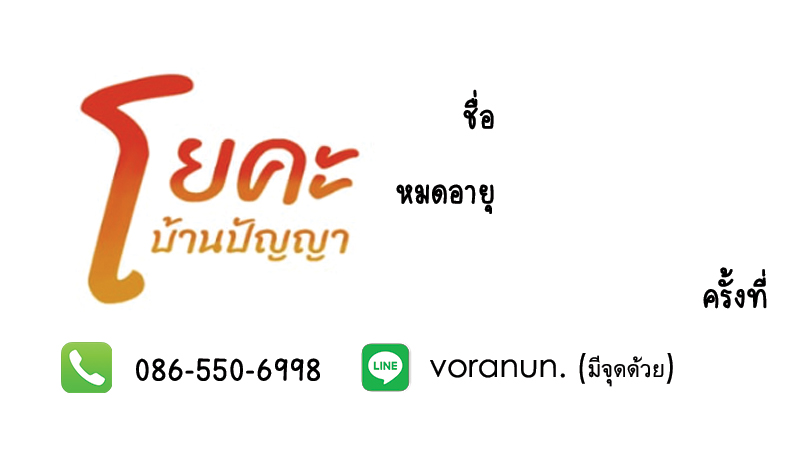
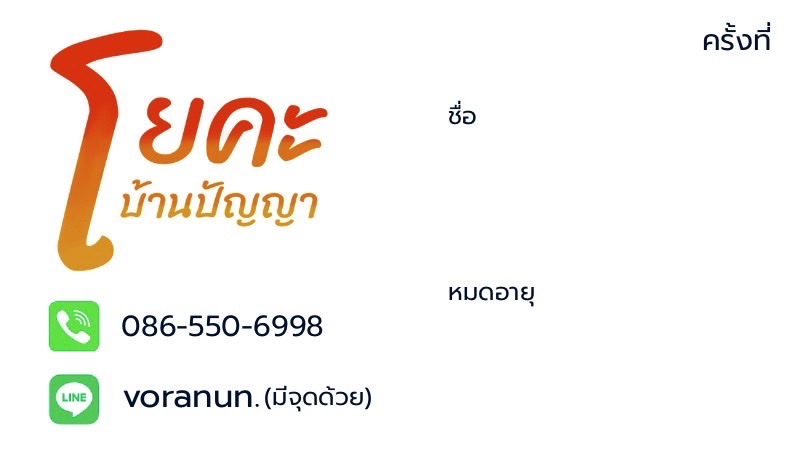
แก้ไข BG [2024-02-19]

diff --git a/index.html b/index.html
@@ -1,191 +1,199 @@
 <!DOCTYPE html>
 <html lang="th">
-<head>
-    <meta charset="UTF-8">
-    <meta name="viewport" content="width=device-width, initial-scale=1.0">
+  <head>
+    <meta charset="UTF-8" />
+    <meta name="viewport" content="width=device-width, initial-scale=1.0" />
     <title>Print Cards</title>
+
+    <link
+      href="https://fonts.googleapis.com/css2?family=Kanit:wght@300;400;700&display=swap"
+      rel="stylesheet"
+    />
+
     <style>
+      body {
+        font-family: "Kanit", sans-serif;
+        text-align: center;
+      }
+
+      .form-container {
+        margin-bottom: 20px;
+      }
+
+      .print-area {
+        display: flex;
+        flex-direction: column;
+        align-items: center;
+      }
+
+      .card-container {
+        display: grid;
+        grid-template-columns: repeat(2, 1fr); /* 2 ใบต่อแถว */
+        grid-template-rows: repeat(5, 1fr); /* 5 แถวต่อหน้า */
+        gap: 0;
+        width: 21cm;
+        height: 29.7cm;
+        padding: 0;
+        page-break-after: always;
+      }
+
+      .card {
+        width: 10.5cm;
+        height: 5.94cm;
+        display: flex;
+        flex-direction: column;
+        justify-content: center;
+        align-items: center;
+        font-size: 14px;
+        position: relative;
+        background-color: white;
+        overflow: hidden;
+        border: 1px solid black;
+      }
+
+      /* ✅ ทำให้พื้นหลังโปร่งแสง */
+      .card::before {
+        content: "";
+        position: absolute;
+        top: 0;
+        left: 0;
+        width: 100%;
+        height: 100%;
+        background-image: url("bg.jpg"); /* ใช้ไฟล์พื้นหลัง */
+        background-size: cover;
+        background-position: center;
+        opacity: 1; /* ✅ ปรับความโปร่งแสงของพื้นหลัง */
+        z-index: 0;
+      }
+
+      /* ✅ ปรับสไตล์ตัวหนังสือ */
+      .content {
+        position: absolute;
+        z-index: 1;
+        text-align: center; /* จัดให้อยู่กึ่งกลาง */
+        font-size: 16px;
+        /* font-weight: bold; */
+        color: black;
+        width: 100%;
+        height: 100%;
+      }
+
+      /* ✅ ปรับตำแหน่งชื่อ */
+      .content name {
+        font-size: 25px;
+        display: block; /* ทำให้เป็นบล็อกเพื่อให้ขยับง่าย */
+        margin-top: 67px;
+        margin-left: 223px;
+        text-align: left;
+      }
+
+      /* ✅ ปรับตำแหน่งวันหมดอายุ */
+      .content expiry {
+        font-size: 25px;
+        display: block;
+        margin-top: 25px;
+        margin-left: 223px;
+        text-align: left;
+      }
+
+      /* ✅ ปรับตำแหน่งเลขลำดับ */
+      .content seq {
+        font-size: 35px;
+        display: block;
+        margin-top: -200px;
+        margin-left: 340px;
+        text-align: center;
+        color: red;
+      }
+
+      /* ✅ ปรับให้พื้นหลังแสดงตอนพิมพ์ */
+      @media print {
         body {
-            font-family: "Arial", sans-serif;
-            text-align: center;
+          visibility: hidden;
         }
-
-        .form-container {
-            margin-bottom: 20px;
-        }
-
         .print-area {
-            display: flex;
-            flex-direction: column;
-            align-items: center;
+          visibility: visible;
+          position: absolute;
+          top: 0;
+          left: 0;
         }
-
-        .card-container {
-            display: grid;
-            grid-template-columns: repeat(2, 1fr); /* 2 ใบต่อแถว */
-            grid-template-rows: repeat(5, 1fr); /* 5 แถวต่อหน้า */
-            gap: 0;
-            width: 21cm;
-            height: 29.7cm;
-            padding: 0;
-            page-break-after: always;
-        }
-
         .card {
-            width: 10.5cm;
-            height: 5.94cm;
-            display: flex;
-            flex-direction: column;
-            justify-content: center;
-            align-items: center;
-            font-size: 14px;
-            position: relative;
-            background-color: white;
-            overflow: hidden;
-            border: 1px solid black;
+          -webkit-print-color-adjust: exact;
+          print-color-adjust: exact;
         }
-
-        /* ✅ ทำให้พื้นหลังโปร่งแสง */
         .card::before {
-            content: "";
-            position: absolute;
-            top: 0;
-            left: 0;
-            width: 100%;
-            height: 100%;
-            background-image: url('bg.jpg'); /* ใช้ไฟล์พื้นหลัง */
-            background-size: cover;
-            background-position: center;
-            opacity: 1; /* ✅ ปรับความโปร่งแสงของพื้นหลัง */
-            z-index: 0;
+          -webkit-print-color-adjust: exact;
+          print-color-adjust: exact;
         }
-
-		/* ✅ ปรับสไตล์ตัวหนังสือ */
-		.content {
-			position: absolute;
-			z-index: 1;
-			text-align: center; /* จัดให้อยู่กึ่งกลาง */
-			font-size: 16px;
-			font-weight: bold;
-			color: black;
-			width: 100%;
-			height: 100%;
-		}
-
-		/* ✅ ปรับตำแหน่งชื่อ */
-		.content name {
-			font-size: 20px;
-			display: block; /* ทำให้เป็นบล็อกเพื่อให้ขยับง่าย */
-			margin-top: 46px;
-			margin-left: 256px;
-			text-align: left;
-		}
-
-		/* ✅ ปรับตำแหน่งวันหมดอายุ */
-		.content expiry {
-			font-size: 14px;
-			display: block;
-			margin-top: 1px;
-			margin-left: 256px;
-			text-align: left;
-		}
-
-		/* ✅ ปรับตำแหน่งเลขลำดับ */
-		.content seq {
-			font-size: 24px;
-			display: block;
-			margin-top: 35px;
-			margin-left: 340px;
-			text-align: center;
-			color: red;
-		}
-
-        /* ✅ ปรับให้พื้นหลังแสดงตอนพิมพ์ */
-        @media print {
-            body {
-                visibility: hidden;
-            }
-            .print-area {
-                visibility: visible;
-                position: absolute;
-                top: 0;
-                left: 0;
-            }
-            .card {
-                -webkit-print-color-adjust: exact;
-                print-color-adjust: exact;
-            }
-            .card::before {
-                -webkit-print-color-adjust: exact;
-                print-color-adjust: exact;
-            }
-        }
+      }
     </style>
-</head>
-<body>
-
+  </head>
+  <body>
     <h2>Print Cards Generator</h2>
 
     <div class="form-container">
-        <label for="name">ชื่อ:</label>
-        <input type="text" id="name" required>
-        
-        <label for="expiry">วันหมดอายุ:</label>
-        <input type="date" id="expiry" required>
+      <label for="name">ชื่อ:</label>
+      <input type="text" id="name" required />
 
-        <label for="count">จำนวนการ์ด:</label>
-        <input type="number" id="count" min="1" required>
+      <label for="expiry">วันหมดอายุ:</label>
+      <input type="date" id="expiry" required />
 
-        <button onclick="generateCards()">Generate Cards</button>
-        <button onclick="printCards()">Print</button>
+      <label for="count">จำนวนการ์ด:</label>
+      <input type="number" id="count" min="1" required />
+
+      <button onclick="generateCards()">Generate Cards</button>
+      <button onclick="printCards()">Print</button>
     </div>
 
     <div class="print-area" id="printArea"></div>
 
     <script>
-        function generateCards() {
-            let name = document.getElementById("name").value;
-            let expiry = document.getElementById("expiry").value;
-            let count = parseInt(document.getElementById("count").value);
+      function generateCards() {
+        let name = document.getElementById("name").value;
+        let expiry = document.getElementById("expiry").value;
+        let count = parseInt(document.getElementById("count").value);
 
-            if (!name || !expiry || count < 1) {
-                alert("กรุณากรอกข้อมูลให้ครบถ้วน!");
-                return;
-            }
-
-            let container = document.getElementById("printArea");
-            container.innerHTML = "";
-
-            let page;
-            
-            for (let i = 1; i <= count; i++) {
-                if ((i - 1) % 10 === 0) {
-                    page = document.createElement("div");
-                    page.className = "card-container";
-                    container.appendChild(page);
-                }
-
-                let card = document.createElement("div");
-                card.className = "card";
-
-                let content = document.createElement("div");
-                content.className = "content";
-                content.innerHTML = `
-                    <name>${name}</name><br>
-                    <expiry>${expiry}</expiry><br>
-                    <seq>${i}</seq>
-                `;
-
-                card.appendChild(content);
-
-                page.appendChild(card);
-            }
+        if (!name || !expiry || count < 1) {
+          alert("กรุณากรอกข้อมูลให้ครบถ้วน!");
+          return;
         }
 
-        function printCards() {
-            window.print();
+        // ✅ แปลงวันที่จาก "YYYY-MM-DD" เป็น "dd/MM/yyyy (พ.ศ.)"
+        let expiryDate = new Date(expiry);
+        let day = expiryDate.getDate();
+        let month = expiryDate.getMonth() + 1; // เดือนใน JS เริ่มจาก 0
+        let year = expiryDate.getFullYear() + 543; // แปลง ค.ศ. เป็น พ.ศ.
+        let formattedDate = `${day.toString().padStart(2, "0")}/${month
+          .toString()
+          .padStart(2, "0")}/${year}`;
+
+        let container = document.getElementById("printArea");
+        container.innerHTML = "";
+
+        let page;
+
+        for (let i = 1; i <= count; i++) {
+          if ((i - 1) % 10 === 0) {
+            page = document.createElement("div");
+            page.className = "card-container";
+            container.appendChild(page);
+          }
+
+          let card = document.createElement("div");
+          card.className = "card";
+
+          let content = document.createElement("div");
+          content.className = "content";
+          content.innerHTML = `
+            <name>${name}</name><br>
+            <expiry>${formattedDate}</expiry><br>
+            <seq>${i}</seq>
+        `;
+
+          card.appendChild(content);
+          page.appendChild(card);
         }
+      }
     </script>
-
-</body>
+  </body>
 </html>
